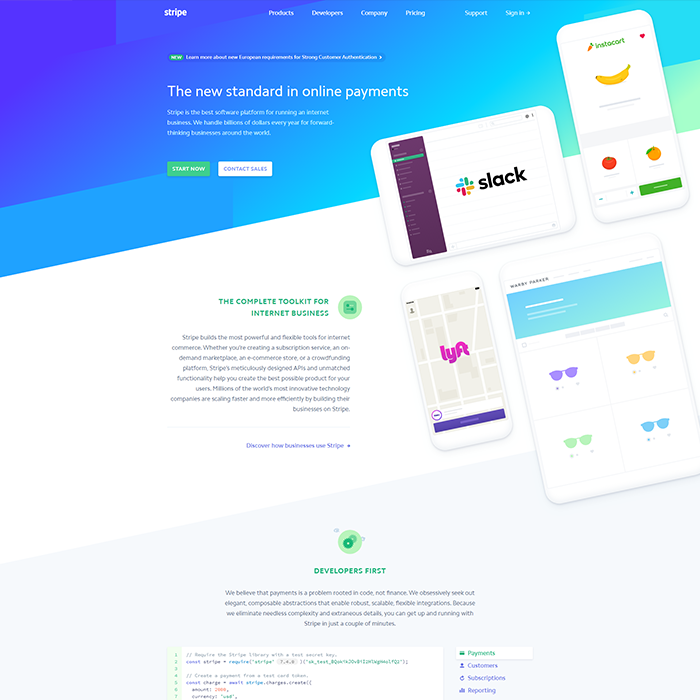
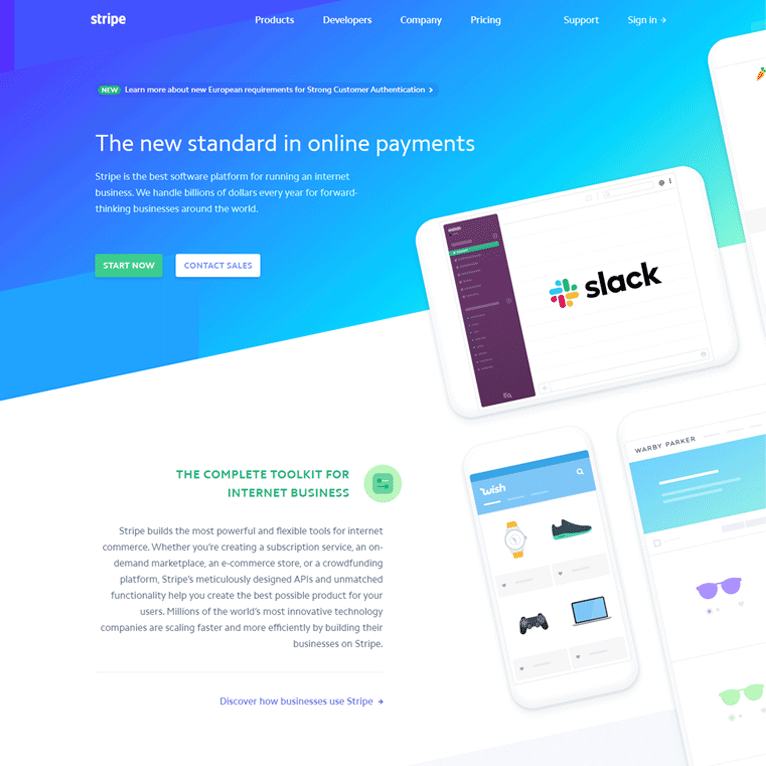
Changed portfolio

diff --git a/css/Index.css b/css/Index.css
@@ -849,6 +849,14 @@ body {
           box-shadow: 0 4px 8px rgba(154, 160, 185, 0.05), 0 12px 32px rgba(166, 173, 201, 0.2);
 }
 
+@media only screen and (max-width: 480px) {
+  .portfolio {
+    -ms-grid-columns: (1fr)[1];
+        grid-template-columns: repeat(1, 1fr);
+    width: 80%;
+  }
+}
+
 .portfolio img {
   width: 350px;
   cursor: pointer;
@@ -863,6 +871,12 @@ body {
 @media only screen and (max-width: 768px) {
   .portfolio img {
     width: 30vw;
+  }
+}
+
+@media only screen and (max-width: 480px) {
+  .portfolio img {
+    width: 100%;
   }
 }
 

diff --git a/scss/Index.scss b/scss/Index.scss
@@ -583,6 +583,11 @@ body {
     display: grid;
     grid-template-columns: repeat(3, 1fr);
     box-shadow: 0 4px 8px rgba(154,160,185,.05), 0 12px 32px rgba(166,173,201,.2);
+
+    @include phone-down() {
+        grid-template-columns: repeat(1, 1fr);
+        width: 80%;
+    }
 }
 
 .portfolio img {
@@ -595,6 +600,10 @@ body {
 
     @include tablet-down() {
         width: 30vw;
+    }
+
+    @include phone-down() {
+        width: 100%;
     }
 }
 
